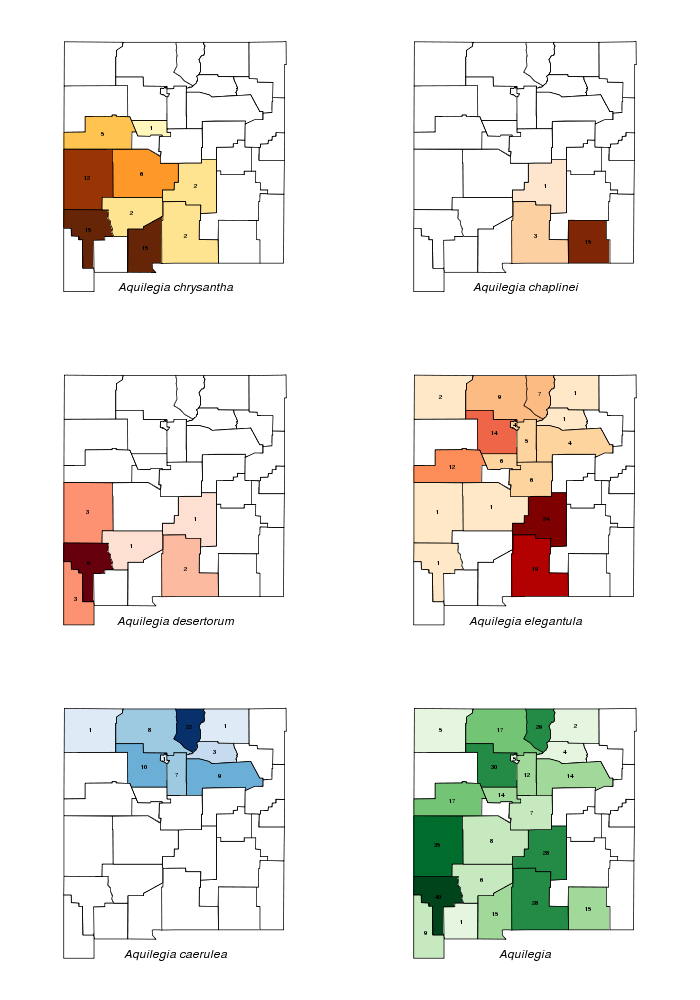
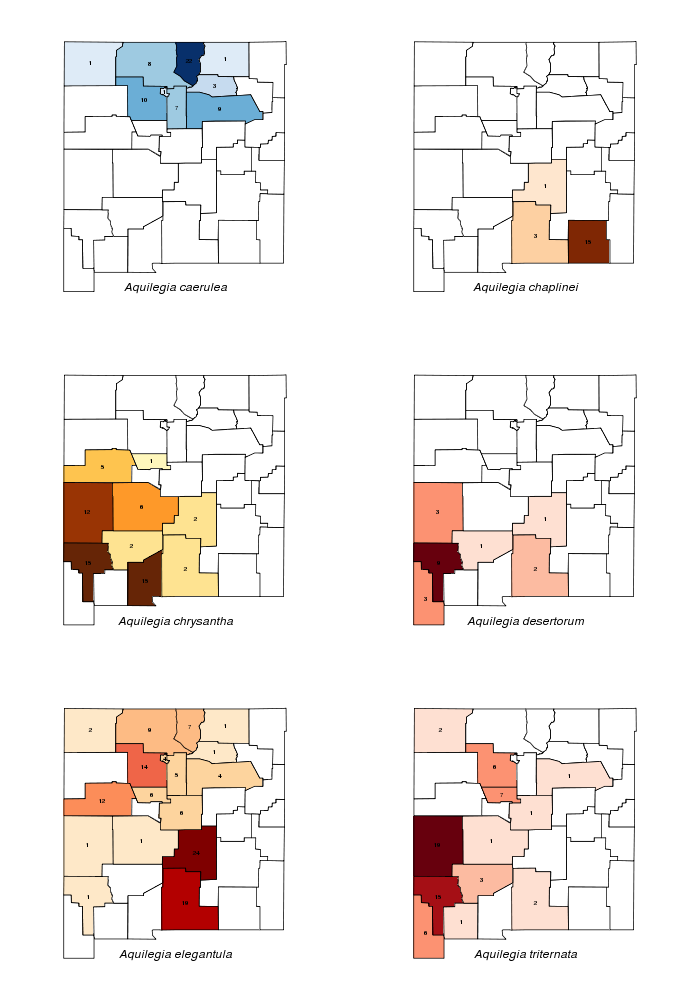
and more README updates

diff --git a/README.md b/README.md
@@ -57,9 +57,30 @@ All the functions have a species option to download or plot a specific species. 
 	plot(aq, sp="chrysantha", pal="YlOrBr")
 	az <- nmbcc("Aquilegia", sp="chrysantha", TRUE, provider= c(318, 269))
 
-Finally, you can plot different points for each species or separate county maps using a loop.
+Finally, you can plot different points for each species using a loop (first check species names and fix the alternate spelling for *caerulea*).
+
+	table(species(aq$species))
+	aq$species <-gsub("coerulea", "caerulea", aq$species)
+	x<-unique(species( aq$species) )
+	
+	par(mar=c(3,3,3,3), xpd=TRUE)
+	map("county", "new mexico")
+	mtext(expression(paste(italic("Aquilegia"),  " collections")), 1, line=-1, cex=1.4)
+	clrs<-c("darkblue", "orange", "yellow", "orangered", "red", "darkred")
+	pch=c(15,16,17,15,16,17)
+	for(i in 1:6){
+	  y<-aq2[aq$species==x[i],]
+	  points(y, pch=pch[i], col=clrs[i], add=TRUE)
+	}
+	legend(-108.3, 37.6,legend=gsub("Aquilegia", "A.", x), pch=pch, col=clrs, bty='n', ncol=3)
 
 ![Aquilegia map](/cstubben/nmbcc/raw/master/plots/aq_sp.png)
+
+You can also plot separate county maps.  *A. triternata* is now considered a synonym of *A. desertorum* and you could update these old names using `aq$species <-gsub("triternata", "desertorum", aq$species)`.  Since the plot function uses `grep` to match patterns, you could also combine the two species using `plot(aq, "Aquilegia [dt]", label="A. desertorum")`
+
+	par(mar=c(1,1,1,1), mfrow=c(3,2))
+        palettes <- c("Blues", "Oranges", "YlOrBr", "Reds", "OrRd", "Reds")
+        for(i in 1:6){ plot(aq, x[i], palettes[i])}
 
 ![Aquilegia map2](/cstubben/nmbcc/raw/master/plots/aq_sp2.png)
 
